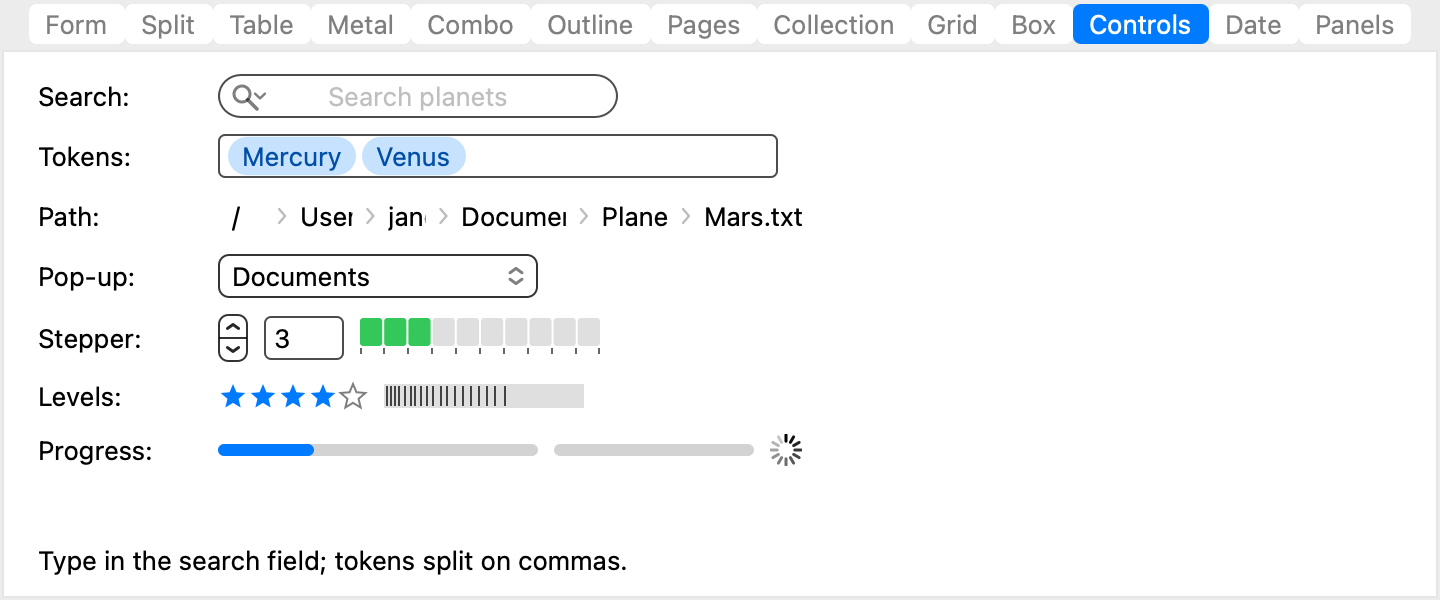
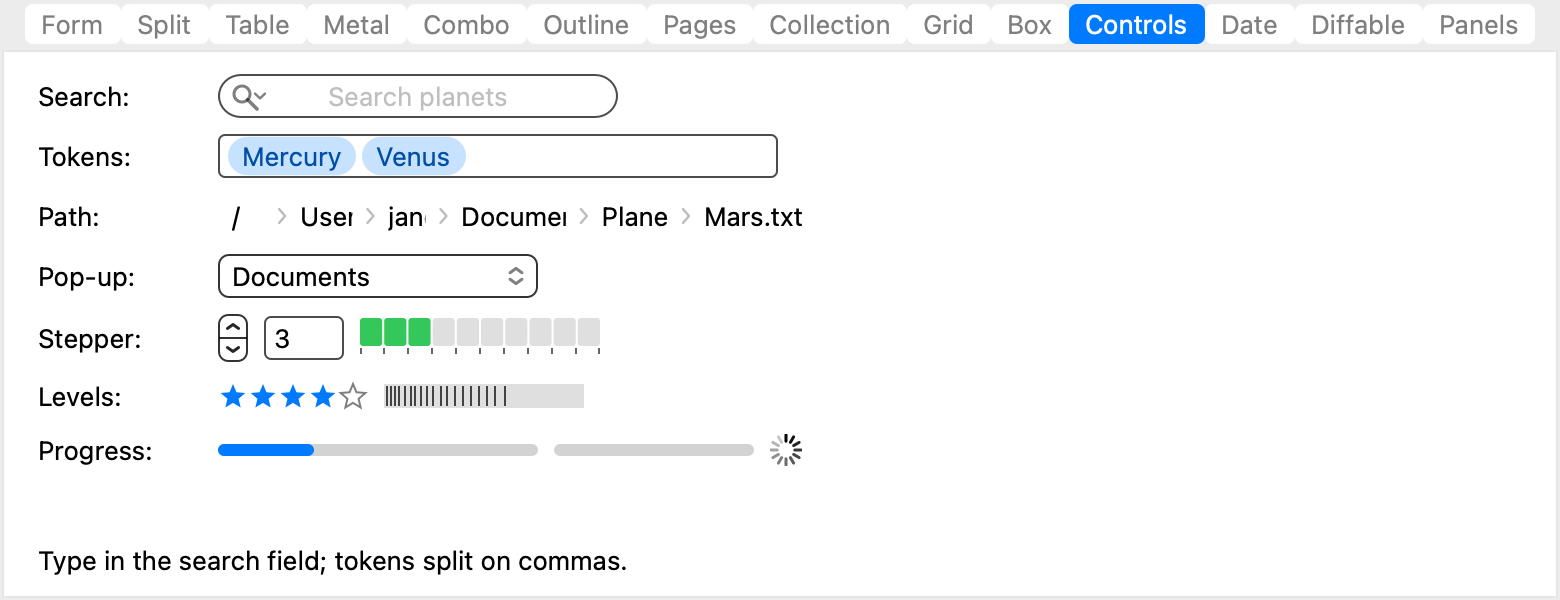
Layout Demo: fourteen tabs after merging the Diffable tab; docs tab list; re-render the Controls image

diff --git a/docs/DEVELOPMENT.md b/docs/DEVELOPMENT.md
@@ -179,7 +179,7 @@ its timers, so `DispatchQueue.main.async`, hops to `@MainActor` from other threa
 | `APPKITWIN_LINUX_BACKEND=x11\|wayland` | Forces a Linux window backend. |
 | `APPKITWIN_WAYLAND_DECORATIONS=client\|server` | What Wayland windows ask xdg-decoration for (the compositor has the last word); `client` shows the package's own frame on a compositor that would draw one (ADR-0015). |
 | `APPKITWIN_DEMO_TAB=data` | Opens the HelloWindow SwiftUI demo on that tab (controls, navigation, presentation, data); screenshots are named by tab. |
-| `APPKITWIN_LAYOUT_TAB=table` | Opens the HelloWindow Layout Demo on that tab (form, split, table, metal, combo, outline, controls, date, panels); screenshots are named by tab. |
+| `APPKITWIN_LAYOUT_TAB=table` | Opens the HelloWindow Layout Demo on that tab (form, split, table, metal, combo, outline, controls, date, diffable, panels); screenshots are named by tab. |
 | `APPKITWIN_PANELS_OPEN=color\|font` | With the Layout Demo's Panels tab, opens the Colors or Fonts panel at launch (screenshots `color-panel`, `font-panel`). |
 | `APPKITWIN_COLOR_PANEL=native` | `NSColorPanel.orderFront` runs the system colour dialog (Windows' ChooseColor) instead of the package-drawn panel (ADR-0031); ignored where there is none. |
 | `APPKITWIN_COMPAT_TAB=confetti` | Opens `LibraryCompat` on that library's tab (shimmer, confetti, wrapping, defaults, markdown, introspect, charts, nuke). |
